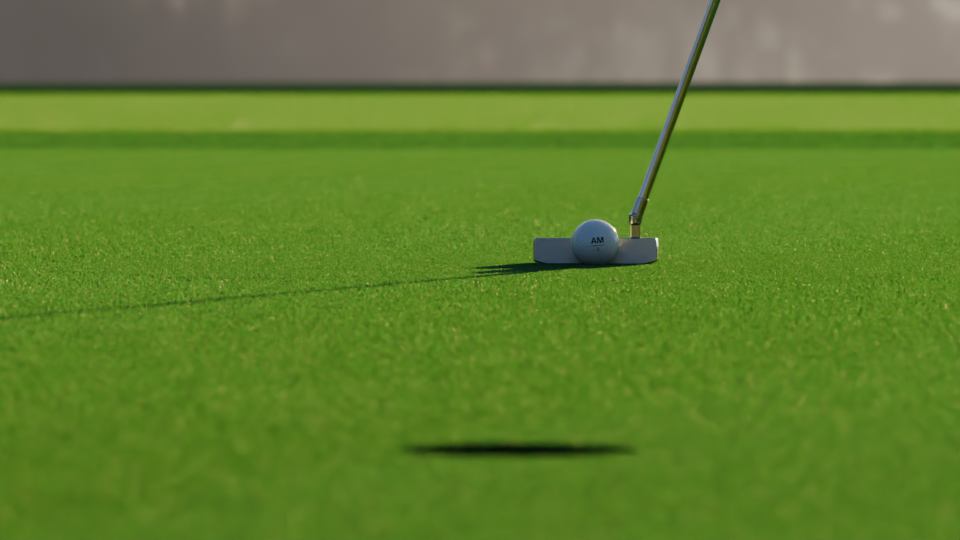
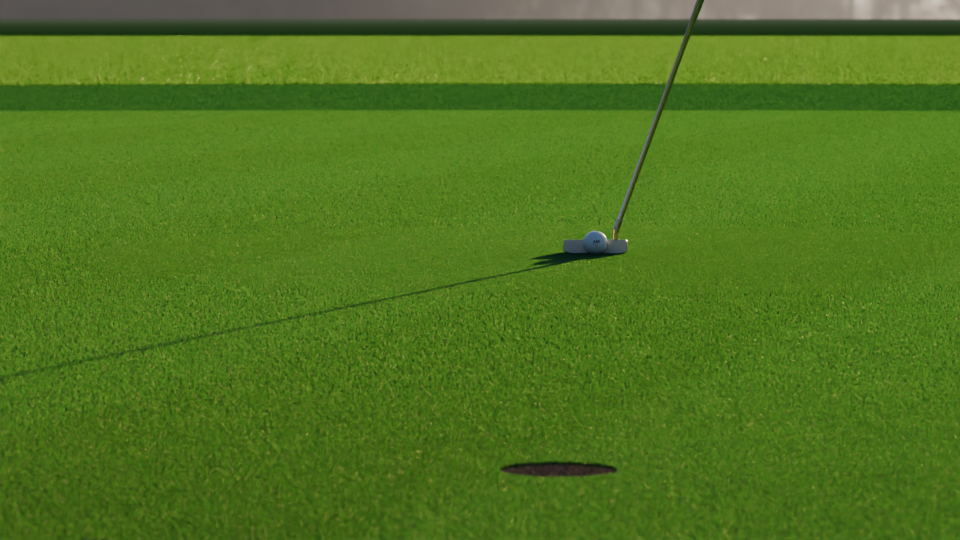
Arrêt 3 et trajet 2 → 3 repris après critique : le trou vu de plus haut, la cloche de l'approche lisible
Arrêt 3 : caméra à 0,42 m, 3,3 m derrière le trou, 135 mm (plongée de 7° au lieu de 3°) ; terre de la paroi
éclaircie pour le green du 1 (P.cup, soil_tone) ; disques de brins aux bords fondus.
Approche roulée : le wedge quitte la scène deux images après l'impact ; la caméra s'élève à peine plus que la
balle, vise sa mi-hauteur et ouvre son champ à 60 mm pendant le vol ; couloir d'herbe étendu derrière la balle.

Claude-Session: https://claude.ai/code/session_01AGcwt1eedzLWBqQF5DDfmD

diff --git a/render/scene.py b/render/scene.py
@@ -446,6 +446,15 @@ def spread(cam_pos, target, cone, spots=(), back=0.25, seed=1):
     return np.concatenate(sets)
 
 
+def soft_disc(centre, radius, count, seed=1):
+    """Des points serrés autour d'un sujet, de plus en plus rares vers le bord : vu d'un peu haut, un
+    disque plus dense que ses alentours se détache en tache claire s'il a un bord net."""
+    rng = np.random.default_rng(seed)
+    n = int(count * DENSITY)
+    r, t = radius * rng.random(n) ** 0.75, 2 * math.pi * rng.random(n)
+    return np.stack([centre[0] + r * np.cos(t), centre[1] + r * np.sin(t)], axis=1)
+
+
 def ball_obstacle(centre):
     c = np.array(centre, dtype=np.float64)
     return lambda pts: np.linalg.norm(pts - c, axis=1) - P.BALL_R
@@ -619,7 +628,7 @@ def place_green1(pin=False):
     sky_at('spruit_sunrise', sun=opt('sun', G1_SUN), backdrop=opt('backdrop', 1.0), mist=MIST)
     look(-0.7, MORNING)
     P.lawn(LAWN, FAR_MIST, haze=(40, 240), hole=(*G1_HOLE, P.CUP_R), disc=(*G1_C, G1_R, (0.045, 0.165, 0.050)), specular=0.0)
-    P.cup(G1_HOLE)
+    P.cup(G1_HOLE, soil_tone=opt('soil', 8.0))  # la paroi que montre l'arrêt 3 est à l'ombre : une terre claire s'y lit
     socket_floor(G1_HOLE)
     flag = P.flagstick(G1_HOLE, heading=math.radians(200)) if pin else None
     return green_turf(G1_C, G1_R, angle=math.radians(opt('stripes', 168))), flag
@@ -637,13 +646,19 @@ def view_2():
 
 
 def view_3():
-    """Derrière le trou, bas, à peine décalée de la ligne du putt : le trou en amorce au premier plan,
-    juste à gauche de l'aplomb de la balle, la balle nette trois mètres plus loin, et au-dessus du
-    green la bande des arbres dans la brume. Le diaphragme reste fermé : vu si bas, le trou n'est
-    qu'une ellipse très plate, qu'un flou plus fort effacerait."""
-    pos = V((G1_HOLE[0] + opt('back', 3.0), opt('side', 0.07), opt('height', 0.17)))
-    lens = opt('lens', 250)
+    """Derrière le trou, à hauteur de genou, à peine décalée de la ligne du putt : le trou en amorce au
+    premier plan, juste à gauche de l'aplomb de la balle, la balle nette trois mètres plus loin, et
+    au-dessus du green la bande des arbres dans la brume. D'assez haut (sept degrés de plongée) pour
+    que le trou soit un trou : une ellipse ouverte, sa paroi de terre éclairée par le ciel. Le
+    diaphragme reste fermé : le trou et la balle sont nets ensemble."""
+    pos = V((G1_HOLE[0] + opt('back', 3.3), opt('side', 0.07), opt('height', 0.42)))
+    lens = opt('lens', 135)
     return View(pos, aim(pos, B3, lens, 0.62, opt('fy', 0.45)), lens, opt('fstop', 20.0), B3)
+
+
+def half_3():
+    """Demi-angle (degrés) du secteur que l'arrêt 3 plante devant son cadrage : un peu plus que son champ."""
+    return max(6.0, 1.25 * math.degrees(math.atan(18.0 / view_3().lens)))
 
 
 def stop_2(pin=False, place=None):
@@ -674,7 +689,7 @@ def stop_2(pin=False, place=None):
 
 
 def stop_3(pin=False, place=None, ball=None):
-    """Sur le green du 1, à 3 m du trou. De derrière le trou, bas, au téléobjectif : le trou en amorce
+    """Sur le green du 1, à 3 m du trou. De derrière le trou, à hauteur de genou : le trou en amorce
     au premier plan, la balle nette trois mètres plus loin, la face du putter derrière elle, et la
     lumière du matin qui vient de face : elle fait briller le green et allonge les ombres vers nous.
     `place` : le lieu s'il est déjà posé ; `ball` : la balle si elle existe déjà (un trajet l'amène)."""
@@ -689,10 +704,14 @@ def stop_3(pin=False, place=None, ball=None):
     C.address(club, centre, gap=0.004, lift=0.0012)
 
     obstacles = [ball_obstacle(centre), club_obstacle(club)]
-    xy = spread(cam_pos, target, (int(opt('blades', 1_800_000)), 2.2, 16.0, 6.0, 0.6), [(G1_BALL3, 0.5, 300_000), (G1_HOLE, 0.4, 200_000)], back=0.0)
+    half = half_3()
+    # Vu de cette hauteur, un gazon clairsemé laisse voir le sol entre les brins, et les deux disques
+    # serrés s'y détachent : même pour une animatique, ce secteur garde au moins sept dixièmes de ses brins.
+    keep = max(DENSITY, 0.7) / DENSITY
+    xy = np.concatenate([spread(cam_pos, target, (int(opt('blades', 2_400_000) * keep), 2.2, 16.0, half, 0.6), back=0.0), soft_disc(G1_BALL3, 0.9, 300_000, seed=8), soft_disc(G1_HOLE, 0.7, 200_000, seed=9)])
     turf.grow(outside(xy, G1_HOLE, P.CUP_R + 0.001), obstacles, seed=7)
     # Au-delà, jusqu'à la brume : peu de brins suffisent, vus si rasants, pour que le sol nu ne se voie pas.
-    turf.grow(spread(cam_pos, target, (int(opt('far', 800_000)), 9.0, 75.0, 5.0, 0.0), back=0.0, seed=21), seed=8)
+    turf.grow(spread(cam_pos, target, (int(opt('far', 1_000_000)), 9.0, 75.0, half - 1.0, 0.0), back=0.0, seed=21), seed=8)
     if opt('dew3', 0.0):
         turf.dew(G1_BALL3, 1.2, opt('dew3', 0.0), size=(0.0003, 0.0008), only=(1, 2))
     P.bloom()
@@ -1126,8 +1145,9 @@ def green_arrival(first, last):
 # ---- trajet 2 → 3 : l'approche roulée, sans coupe
 def chip_and_run(first, last):
     """Un seul plan sur le green du 1 : le wedge fait sauter la balle, elle vole six mètres, retombe sur
-    le green, roule et s'arrête à trois mètres du trou. La caméra recule devant elle au ras du sol,
-    passe au-dessus du trou et finit sur le cadrage de l'arrêt 3 ; le putter vient se poser."""
+    le green, roule et s'arrête à trois mètres du trou. La caméra recule devant elle, près du sol, en
+    ouvrant son champ le temps du vol : la cloche de la balle se lit, avec son ombre et l'horizon ; puis
+    elle passe au-dessus du trou et finit sur le cadrage de l'arrêt 3 ; le putter vient se poser."""
     place = place_green1()
     a = stop_2(place=place)
     fya = focus_of(a.cam, B2)[1]
@@ -1136,14 +1156,15 @@ def chip_and_run(first, last):
     bpy.data.objects.remove(a.cam)
     cam, va, vb = b.cam, a.view, b.view
     impact, land, stop = CUES[2]['impact'], CUES[2]['land'], 40
-    # L'herbe du couloir, entre les deux cadrages : la caméra y passe vite, peu de brins suffisent.
+    # L'herbe du couloir, entre les deux cadrages, et loin derrière la balle (la caméra recule en la
+    # regardant : c'est le fond de l'image) : elle y passe vite, peu de brins suffisent.
     rng = np.random.default_rng(51)
-    n = int(1_100_000 * DENSITY)
-    xy = np.stack([-2.5 + 25.5 * rng.random(n), -2.6 + 4.2 * rng.random(n)], axis=1)
-    place[0].grow(outside(beside(beside(xy, va, 22), vb, 6, back=0.0), G1_HOLE, P.CUP_R + 0.001), seed=53)
+    n = int(2_400_000 * DENSITY)
+    xy = np.stack([-12.0 + 35.0 * rng.random(n), -5.0 + 8.0 * rng.random(n)], axis=1)
+    place[0].grow(outside(beside(beside(xy, va, 22), vb, half_3(), back=0.0), G1_HOLE, P.CUP_R + 0.001), seed=53)
     K.setup()
     clock = K.Clock(impact, slow=0.060 / K.CLUBS['wedge']['speed'], before=1.25, after=1.9, cap=0.118)
-    K.swing(a.club, 'wedge', clock, first=first, back=4, reach=0.0125, last=impact + 5)
+    K.swing(a.club, 'wedge', clock, first=first, back=4, reach=0.0125, last=impact + 2)  # il quitte la scène avant que la caméra ne se retourne : sans joueur, son manche suivrait la balle dans le cadre
     ball = K.Ball(a.ball)
     fly = K.Flight.of('wedge', B2, draw=(0.0, 0.0))
     where = K.launch(ball, fly, clock, first=first, last=land)
@@ -1156,26 +1177,32 @@ def chip_and_run(first, last):
     ball.roll(rolling, [where[f] for f in rolling], b.ball_turn)
     K.burst(K.loose_blades(14, a.turf.kinds[0].material()), V((0.03, 0, 0)), clock, land, speed=(1.2, 3.5), lift=(30, 70), fan=30, tumble=25, seed=5)
     K.settle(b.club, stop, last, 70.0)
-    # La caméra : devant la balle, de plus en plus loin devant ; quand la balle vole, elle monte plus
-    # qu'elle et la regarde d'un peu au-dessus (huit degrés), pour la garder sur le vert du green : le
-    # soleil est bas, juste derrière, et une balle blanche devant lui se dissout dans son halo. Elle
-    # la tient toujours au même point de l'image.
+    # La caméra : devant la balle, de plus en plus loin devant. Quand la balle vole, elle s'élève à
+    # peine plus qu'elle (le soleil est bas, juste derrière : une balle blanche qui passe au-dessus de
+    # l'horizon se dissout dans son halo ; vue d'un rien au-dessus, elle reste sur le vert, l'horizon
+    # en haut de l'image) et ne vise que sa mi-hauteur, en ouvrant son champ (60 mm) : la balle monte
+    # de près de quatre dixièmes d'image et redescend, son ombre reste au sol, sa cloche se lit. Puis
+    # le champ se resserre jusqu'au cadrage de l'arrêt 3.
     frames = K.half_frames(first, last)
     pts = [V(where[f]) for f in frames]
     soft = K.follow(pts, B2, weight=0.6)
     ahead = vb.pos.x - B3.x - va.pos.x  # ce dont la caméra s'éloigne de la balle, d'un cadrage à l'autre
+    wide = opt('chipwide', 60.0)
     pos, target, lens, focus, fstop = [], [], [], [], []
     for k, f in enumerate(frames):
         g = float(K.smooth((f - impact - 0.5) / (42.5 - impact)))
         early = 2.2 * float(K.smooth((f - impact) / 6.0))
-        p = V((soft[k].x + va.pos.x + early + (ahead - 2.2) * g, va.pos.y + (vb.pos.y - va.pos.y) * g, va.pos.z + (vb.pos.z - va.pos.z) * g + opt('lift', 1.45) * max(0.0, soft[k].z - B2.z)))
+        p = V((soft[k].x + va.pos.x + early + (ahead - 2.2) * g, va.pos.y + (vb.pos.y - va.pos.y) * g, va.pos.z + (vb.pos.z - va.pos.z) * g + opt('lift', 1.1) * max(0.0, soft[k].z - B2.z)))
         p = p.lerp(vb.pos, float(K.smooth((f - 38) / 5.0)))
         mm = math.exp(math.log(va.lens) + (math.log(vb.lens) - math.log(va.lens)) * g)
+        opened = float(K.smooth((f - impact - 0.5) / 3.0)) * (1.0 - float(K.smooth((f - (land - 1.0)) / 5.0)))
+        mm = math.exp(math.log(mm) + (math.log(wide) - math.log(mm)) * opened)
         w = float(K.smooth((f - impact) / 1.5))
+        look = V((pts[k].x, pts[k].y, pts[k].z - 0.5 * max(0.0, pts[k].z - B2.z)))
         pos.append(p)
         lens.append(mm)
         fstop.append(math.exp(math.log(va.fstop) + (math.log(vb.fstop) - math.log(va.fstop)) * g))
-        target.append(vb.target if f >= 43 else va.target.lerp(aim(p, pts[k], mm, 0.62, fya + (fyb - fya) * g), w))
+        target.append(vb.target if f >= 43 else va.target.lerp(aim(p, look, mm, 0.62, fya + (fyb - fya) * g), w))
         focus.append((pts[k] - p).length)
     K.track(cam, frames, pos, target, lens=lens, focus=focus, fstop=fstop)
 
@@ -1203,7 +1230,7 @@ def birdie_putt(first, last):
     impact, land = CUES[3]['impact'], CUES[3]['land']
     hole = V((G1_HOLE[0], G1_HOLE[1], 0.0))
     # L'herbe autour du trou, hors du couloir étroit que voit le téléobjectif : la plongée la découvre.
-    xy = beside(spread(view.pos, hole, (500_000, 1.2, 9.0, 28, 0.6), seed=61), view, 6, back=0.0)
+    xy = beside(spread(view.pos, hole, (500_000, 1.2, 9.0, 28, 0.6), seed=61), view, half_3(), back=0.0)
     a.turf.grow(outside(xy, G1_HOLE, P.CUP_R + 0.001), a.obstacles, seed=63)
     K.setup()
     # Le putter reste en fin de geste : le joueur regarde sa balle rouler.

diff --git a/render/parts.py b/render/parts.py
@@ -755,9 +755,10 @@ CUP_LIP = 0.025  # le godet est enfoncé de 25 mm sous le bord
 CUP_DEPTH = 0.110  # fond du godet
 
 
-def cup(center=(0.0, 0.0)):
+def cup(center=(0.0, 0.0), soil_tone=1.0):
     """Le trou et son godet : une bande de terre de 25 mm sous le bord du gazon, puis le godet blanc,
-    son fond percé de six lumières et la douille où s'emboîte le drapeau."""
+    son fond percé de six lumières et la douille où s'emboîte le drapeau. soil_tone : clarté de la
+    terre (plus de 1 : une terre plus claire, pour une paroi vue à l'ombre, éclairée par le seul ciel)."""
     d = CUP_DEPTH
     prof = [(CUP_R, 0.0), (CUP_R + 0.0005, -0.006), (CUP_R, -CUP_LIP), (CUP_INNER, -CUP_LIP), (CUP_INNER, -d), (0.016, -d), (0.0125, -d + 0.010), (0.0090, -d + 0.010), (0.0090, -d - 0.030)]
     segs = 128
@@ -772,9 +773,9 @@ def cup(center=(0.0, 0.0)):
     nt.links.new(tc.outputs['Object'], noise.inputs['Vector'])
     ramp = nt.nodes.new('ShaderNodeValToRGB')
     ramp.color_ramp.elements[0].position = 0.3
-    ramp.color_ramp.elements[0].color = (0.022, 0.014, 0.008, 1)
+    ramp.color_ramp.elements[0].color = (0.022 * soil_tone, 0.014 * soil_tone, 0.008 * soil_tone, 1)
     ramp.color_ramp.elements[1].position = 0.75
-    ramp.color_ramp.elements[1].color = (0.105, 0.070, 0.040, 1)
+    ramp.color_ramp.elements[1].color = (0.105 * soil_tone, 0.070 * soil_tone, 0.040 * soil_tone, 1)
     nt.links.new(noise.outputs['Fac'], ramp.inputs[0])
     nt.links.new(ramp.outputs[0], bsdf(soil).inputs['Base Color'])
     bump = nt.nodes.new('ShaderNodeBump')
